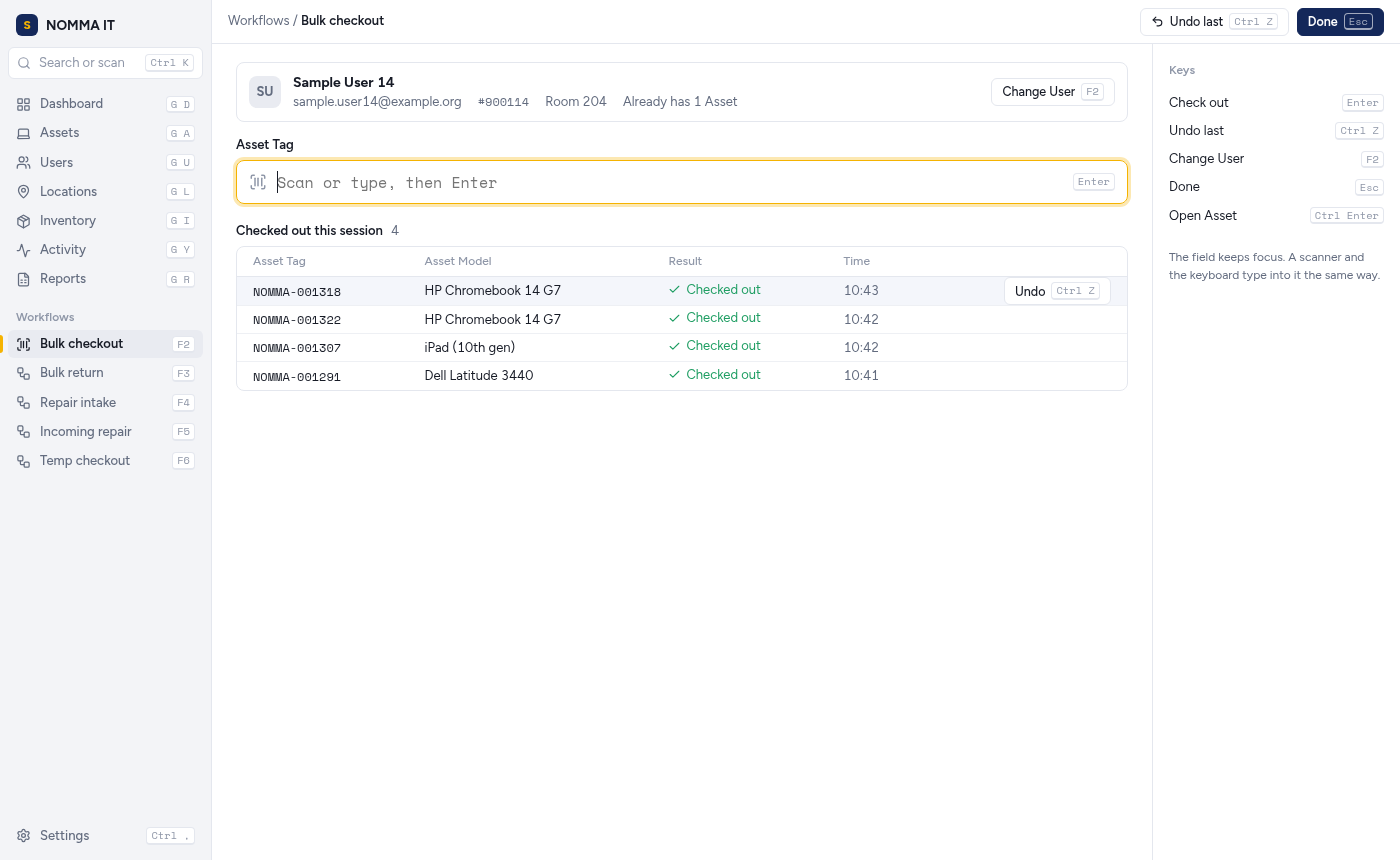
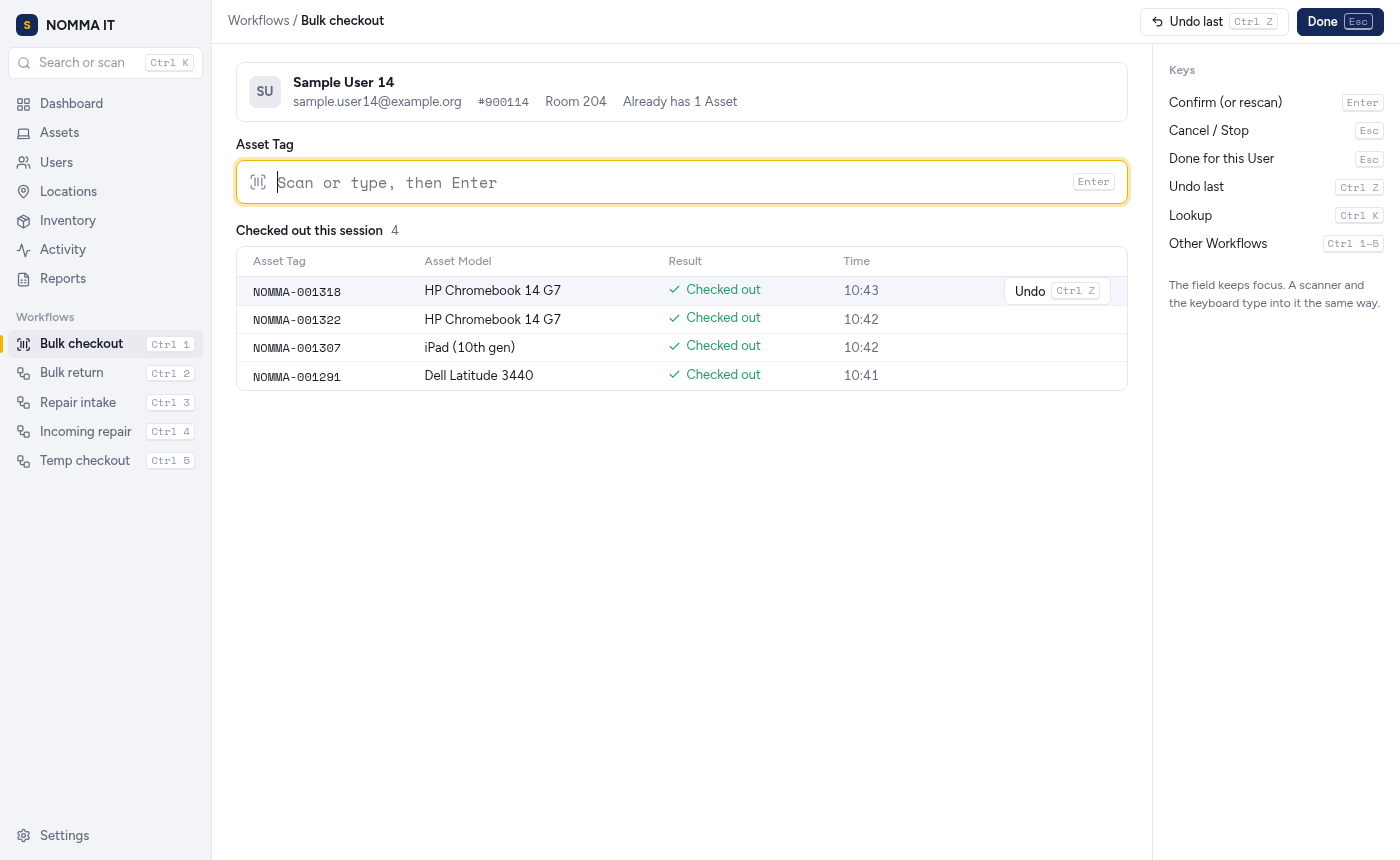
Prototype #64: B shortcuts match #56 (Ctrl+1-5, Ctrl+K, Enter, Esc, Ctrl+Z)
Undecided placeholder keys (G-chords, F2-F6, Ctrl+comma, N, /) removed.

Changed region(s): [[0.8293, 0.0907, 0.9829, 0.3628], [0.7064, 0.0907, 0.7986, 0.1209], [0.9521, 0.1512, 0.9829, 0.1814]]

diff --git a/prototypes/looks-64/option-b.html b/prototypes/looks-64/option-b.html
@@ -1,5 +1,5 @@
 <!doctype html>
-<!-- PROTOTYPE (#64), throwaway. Option B "Index": labelled sidebar with shortcut hints, neutral greys, navy/gold kept only as accents. ?screen=workflow|assets&theme=light|dark -->
+<!-- PROTOTYPE (#64), throwaway. Shortcuts match #56's resolution (Ctrl+1-5, Ctrl+K, Enter, Esc, Ctrl+Z); undecided keys removed. Option B "Index": labelled sidebar with shortcut hints, neutral greys, navy/gold kept only as accents. ?screen=workflow|assets&theme=light|dark -->
 <html lang="en"><head><meta charset="utf-8"><title>Option B: Index</title>
 <style>
 @font-face { font-family: Figtree; font-weight: 300 900; src: url(../../src/renderer/src/fonts/figtree-latin.woff2) format('woff2'); }
@@ -93,30 +93,30 @@ th { color: var(--faint); font-weight: 500; font-size: 12px; height: 30px; borde
 const C = { blue: 'var(--blue)', green: 'var(--green)', amber: 'var(--amber)', red: 'var(--red)', grey: 'var(--grey)' }
 const side = (sel) => `<aside class="side"><div class="brand"><i>S</i>NOMMA IT</div>
   <div class="find">${ic('Search', 14)}Search or scan<kbd>Ctrl K</kbd></div>
-  ${[['LayoutGrid', 'Dashboard', 'G D'], ['Laptop', 'Assets', 'G A'], ['Users', 'Users', 'G U'], ['MapPin', 'Locations', 'G L'], ['Package', 'Inventory', 'G I'], ['Activity', 'Activity', 'G Y'], ['FileSpreadsheet', 'Reports', 'G R']]
-    .map(([i, l, k]) => `<div class="item ${l === sel ? 'sel' : ''}">${ic(i, 15)}${l}<kbd>${k}</kbd></div>`).join('')}
+  ${[['LayoutGrid', 'Dashboard'], ['Laptop', 'Assets'], ['Users', 'Users'], ['MapPin', 'Locations'], ['Package', 'Inventory'], ['Activity', 'Activity'], ['FileSpreadsheet', 'Reports']]
+    .map(([i, l]) => `<div class="item ${l === sel ? 'sel' : ''}">${ic(i, 15)}${l}</div>`).join('')}
   <div class="group">Workflows</div>
-  ${['Bulk checkout', 'Bulk return', 'Repair intake', 'Incoming repair', 'Temp checkout'].map((l, i) => `<div class="item ${l === sel ? 'sel' : ''}">${ic(i ? 'Workflow' : 'ScanBarcode', 15)}${l}<kbd>F${i + 2}</kbd></div>`).join('')}
-  <div class="item foot">${ic('Settings', 15)}Settings<kbd>Ctrl ,</kbd></div></aside>`
+  ${['Bulk checkout', 'Bulk return', 'Repair intake', 'Incoming repair', 'Temp checkout'].map((l, i) => `<div class="item ${l === sel ? 'sel' : ''}">${ic(i ? 'Workflow' : 'ScanBarcode', 15)}${l}<kbd>Ctrl ${i + 1}</kbd></div>`).join('')}
+  <div class="item foot">${ic('Settings', 15)}Settings</div></aside>`
 const st = (r) => `<span class="st" style="--c:${C[r.color]}">${r.status}</span>`
 if (SCREEN === 'workflow') show(`<div class="layout">${side('Bulk checkout')}<main class="main">
   <div class="bar"><span class="crumb">Workflows / <b>Bulk checkout</b></span><span class="sp"></span><button>${ic('Undo2', 13)}Undo last <kbd>Ctrl Z</kbd></button><button class="primary">Done <kbd>Esc</kbd></button></div>
   <div class="wf"><div class="wf-main">
-    <div class="who"><div class="av">SU</div><div><b>${USER.name}</b><div class="meta"><span>${USER.email}</span><span class="mono">#${USER.emp}</span><span>${USER.loc}</span><span>Already has ${USER.holds} Asset</span></div></div><button>Change User <kbd>F2</kbd></button></div>
+    <div class="who"><div class="av">SU</div><div><b>${USER.name}</b><div class="meta"><span>${USER.email}</span><span class="mono">#${USER.emp}</span><span>${USER.loc}</span><span>Already has ${USER.holds} Asset</span></div></div></div>
     <div class="field"><label>Asset Tag</label><div class="in">${ic('ScanBarcode', 18)}<input autofocus placeholder="Scan or type, then Enter"><kbd>Enter</kbd></div></div>
     <div class="log"><h2>Checked out this session <span class="dim" style="font-weight:400">4</span></h2>
       <table><tr><th>Asset Tag</th><th>Asset Model</th><th>Result</th><th>Time</th><th></th></tr>
       ${DONE.map((d, i) => `<tr class="${i ? '' : 'new'}"><td class="mono">${d.tag}</td><td>${d.model}</td><td><span class="ok">${ic('Check', 13)}Checked out</span></td><td class="dim">${d.time}</td><td style="text-align:right">${i ? '' : '<button>Undo <kbd>Ctrl Z</kbd></button>'}</td></tr>`).join('')}</table></div>
   </div>
   <aside class="keys"><h3>Keys</h3>
-    <div><span>Check out</span><kbd>Enter</kbd></div><div><span>Undo last</span><kbd>Ctrl Z</kbd></div><div><span>Change User</span><kbd>F2</kbd></div><div><span>Done</span><kbd>Esc</kbd></div><div><span>Open Asset</span><kbd>Ctrl Enter</kbd></div>
+    <div><span>Confirm (or rescan)</span><kbd>Enter</kbd></div><div><span>Cancel / Stop</span><kbd>Esc</kbd></div><div><span>Done for this User</span><kbd>Esc</kbd></div><div><span>Undo last</span><kbd>Ctrl Z</kbd></div><div><span>Lookup</span><kbd>Ctrl K</kbd></div><div><span>Other Workflows</span><kbd>Ctrl 1–5</kbd></div>
     <p>The field keeps focus. A scanner and the keyboard type into it the same way.</p></aside></div>
 </main></div>`)
 else show(`<div class="layout">${side('Assets')}<main class="main">
-  <div class="bar"><span class="crumb"><b>Assets</b> <span class="count">240</span></span><span class="sp"></span><button>Columns</button><button class="primary">New Asset <kbd>N</kbd></button></div>
+  <div class="bar"><span class="crumb"><b>Assets</b> <span class="count">240</span></span><span class="sp"></span><button>Columns</button><button class="primary">New Asset</button></div>
   <div class="tabs"><span class="on">All <b>240</b></span><span>Damaged <b>7</b></span><span>Out on temp <b>12</b></span><span>Audit due <b>31</b></span><span>Ready to Deploy <b>58</b></span><span>+ Save view</span></div>
-  <div class="tools"><div class="filter">${ic('Search', 13)}Filter<kbd style="margin-left:auto">/</kbd></div><span class="chipf">+ Status</span><span class="chipf">+ Location</span><span class="chipf">+ Asset Model</span>
-    <span class="sel">3 selected <button>Check out</button><button>Edit</button><button>Print labels</button><button>Clear <kbd>Esc</kbd></button></span></div>
+  <div class="tools"><div class="filter">${ic('Search', 13)}Filter</div><span class="chipf">+ Status</span><span class="chipf">+ Location</span><span class="chipf">+ Asset Model</span>
+    <span class="sel">3 selected <button>Check out</button><button>Edit</button><button>Print labels</button><button>Clear</button></span></div>
   <div class="list"><table><tr><th style="width:1%"></th><th>Asset Tag</th><th>Name</th><th>Status</th><th>Asset Model</th><th>Category</th><th>Location</th><th>Checked out to</th><th>Expected checkin</th><th>Last audit</th></tr>
   ${ROWS.map(r => `<tr class="${r.sel ? 'sel' : ''} ${r.ticked ? 'ticked' : ''}"><td><input type="checkbox" ${r.ticked ? 'checked' : ''}></td><td class="mono">${r.tag}</td><td>${r.name}</td><td>${st(r)}</td><td>${r.model}</td><td class="dim">${r.cat}</td><td>${r.loc}</td><td>${r.to}</td><td>${r.due}${r.temp ? '<span class="flag" style="--c:var(--amber)">Temp</span>' : ''}</td><td class="dim">${r.audited}${r.audit ? `<span class="flag" style="--c:${r.audit === 'late' ? 'var(--red)' : 'var(--amber)'}">${r.audit === 'late' ? 'Audit late' : 'Audit due'}</span>` : ''}</td></tr>`).join('')}</table></div>
 </main></div>`)
